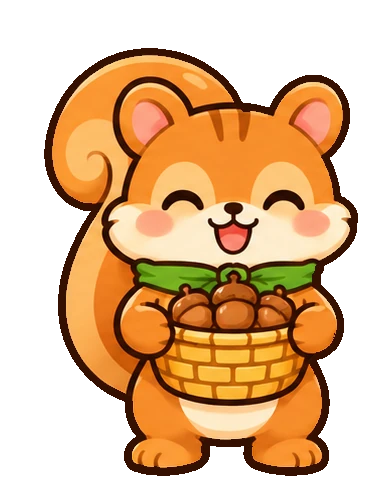
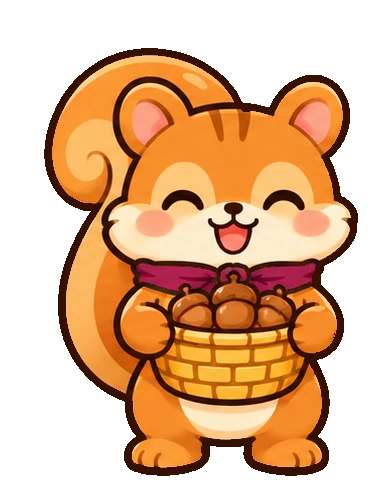
Hero skins: chameleon, beaver, hedgehog, caterpillar, fox; outfit colours varied stage by stage
- Five more heroes with five stage pictures each (the chameleon's and the caterpillar's stage 1 from their sheets)
- The chameleon's outfit recoloured per stage: orange leaf, blue hat and bag, red hat and coat
- Bear, squirrel, rabbit, raccoon, otter and owl: outfit colours changed on 13 stage pictures (faces and fur untouched)

Claude-Session: https://claude.ai/code/session_01AQW15GcGnxhe9Cz9r1c8Vo

Changed region(s): [[0.3367, 0.528, 0.8265, 0.6211]]

diff --git a/index.html b/index.html
@@ -3994,8 +3994,10 @@ const heroIn = L => (L >= HERO_MAX ? HERO_STEP : L % HERO_STEP);
 const heroPct = g => heroLv(g) * HERO_PCT;
 const heroPctTxt = g => (Math.round(heroPct(g) * 100) / 100).toFixed(2);
 // the stages' pictures, game by game, once they are drawn (until then the game's own picture); stage 1 is the game's own
-// character on the stages' canvas: the bear, the squirrel, the rabbit, the raccoon, the otter, the mole, the owl
-const HERO_SKIN = Object.fromEntries(['block', 'acorn', 'stairs', 'merge', 'pebble', 'mushroom', 'owlpost'].map(g => [g, [1, 2, 3, 4, 5].map(k => `skin-${g}-${k}.webp`)]));
+// character on the stages' canvas: the bear, the squirrel, the rabbit, the raccoon, the otter, the mole, the owl, the
+// chameleon, the beaver, the hedgehog, the fox (the caterpillar's stage 1 is its sheet's: the game has no picture of all of it;
+// the chameleon's too, its surprised face as on stages 2 to 5)
+const HERO_SKIN = Object.fromEntries(['block', 'acorn', 'stairs', 'merge', 'pebble', 'mushroom', 'owlpost', 'chameleon', 'beaver', 'hedgehog', 'caterpillar', 'cups'].map(g => [g, [1, 2, 3, 4, 5].map(k => `skin-${g}-${k}.webp`)]));
 const HERO_ADD = {};   // what the hero has added to the score of the game being played (again on top after going on)
 // a game ends: its hero's share added to its score (to the points since the last time, after going on)
 function heroScore(game, X, key = 'score') {
